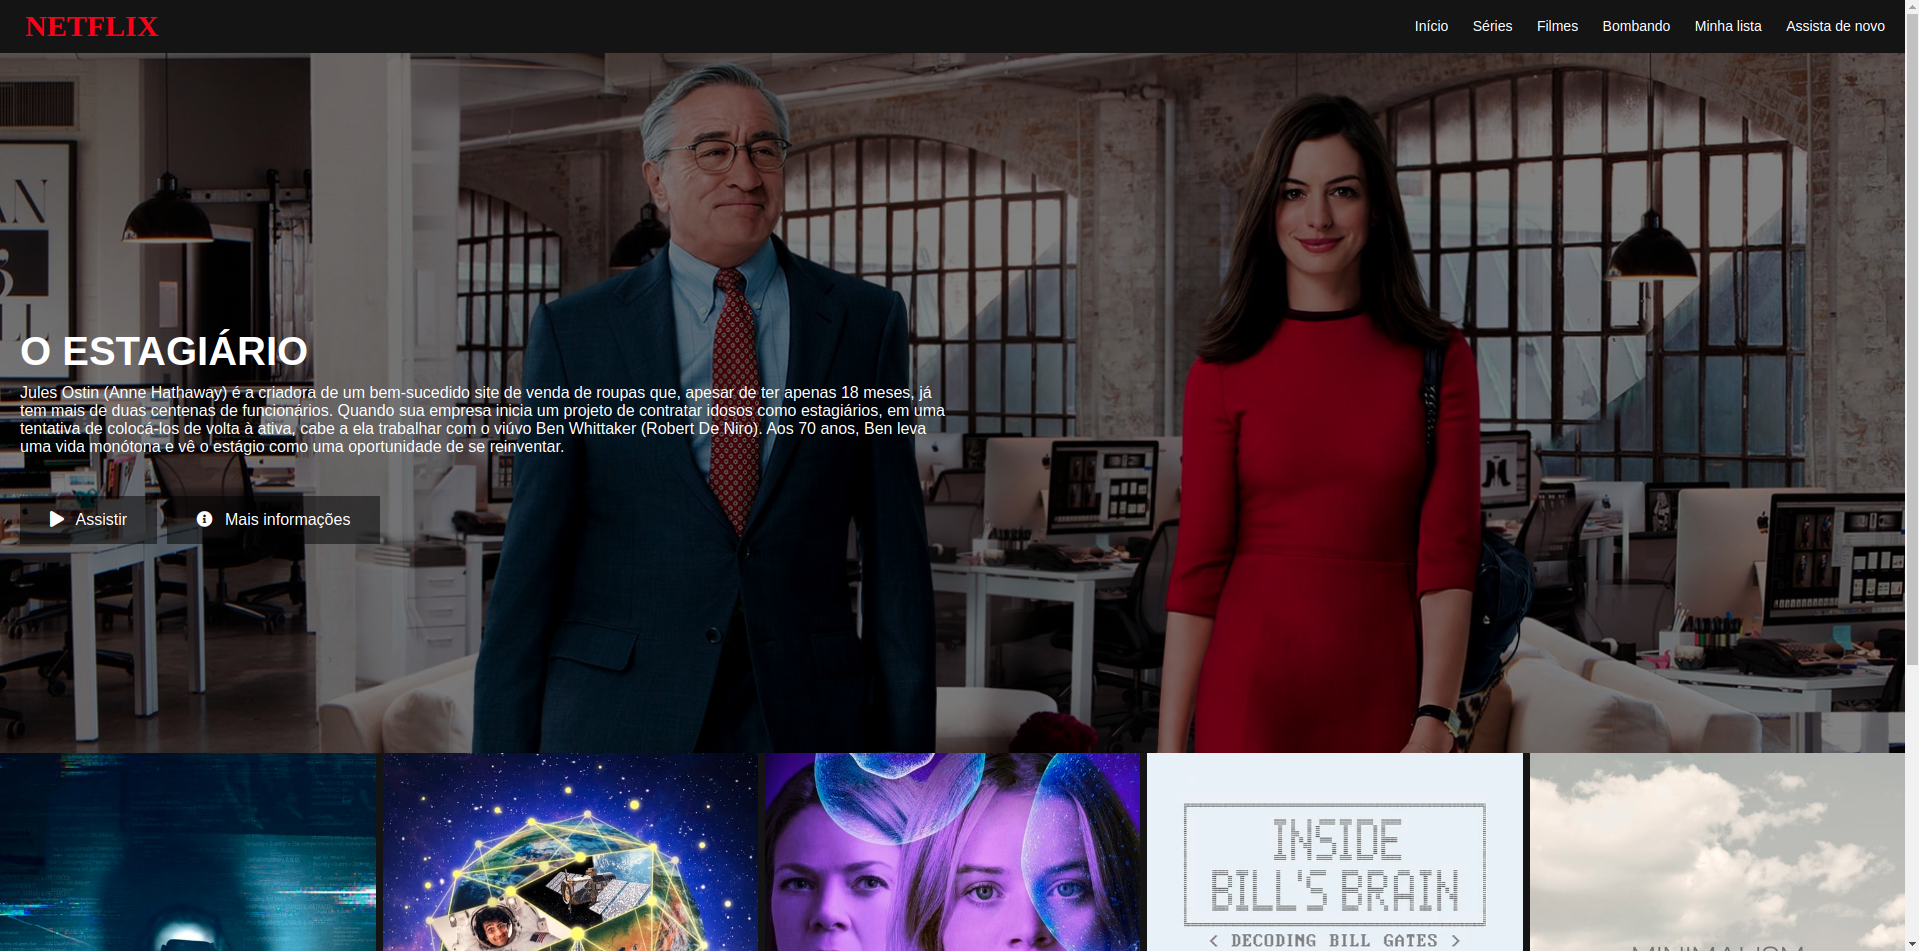
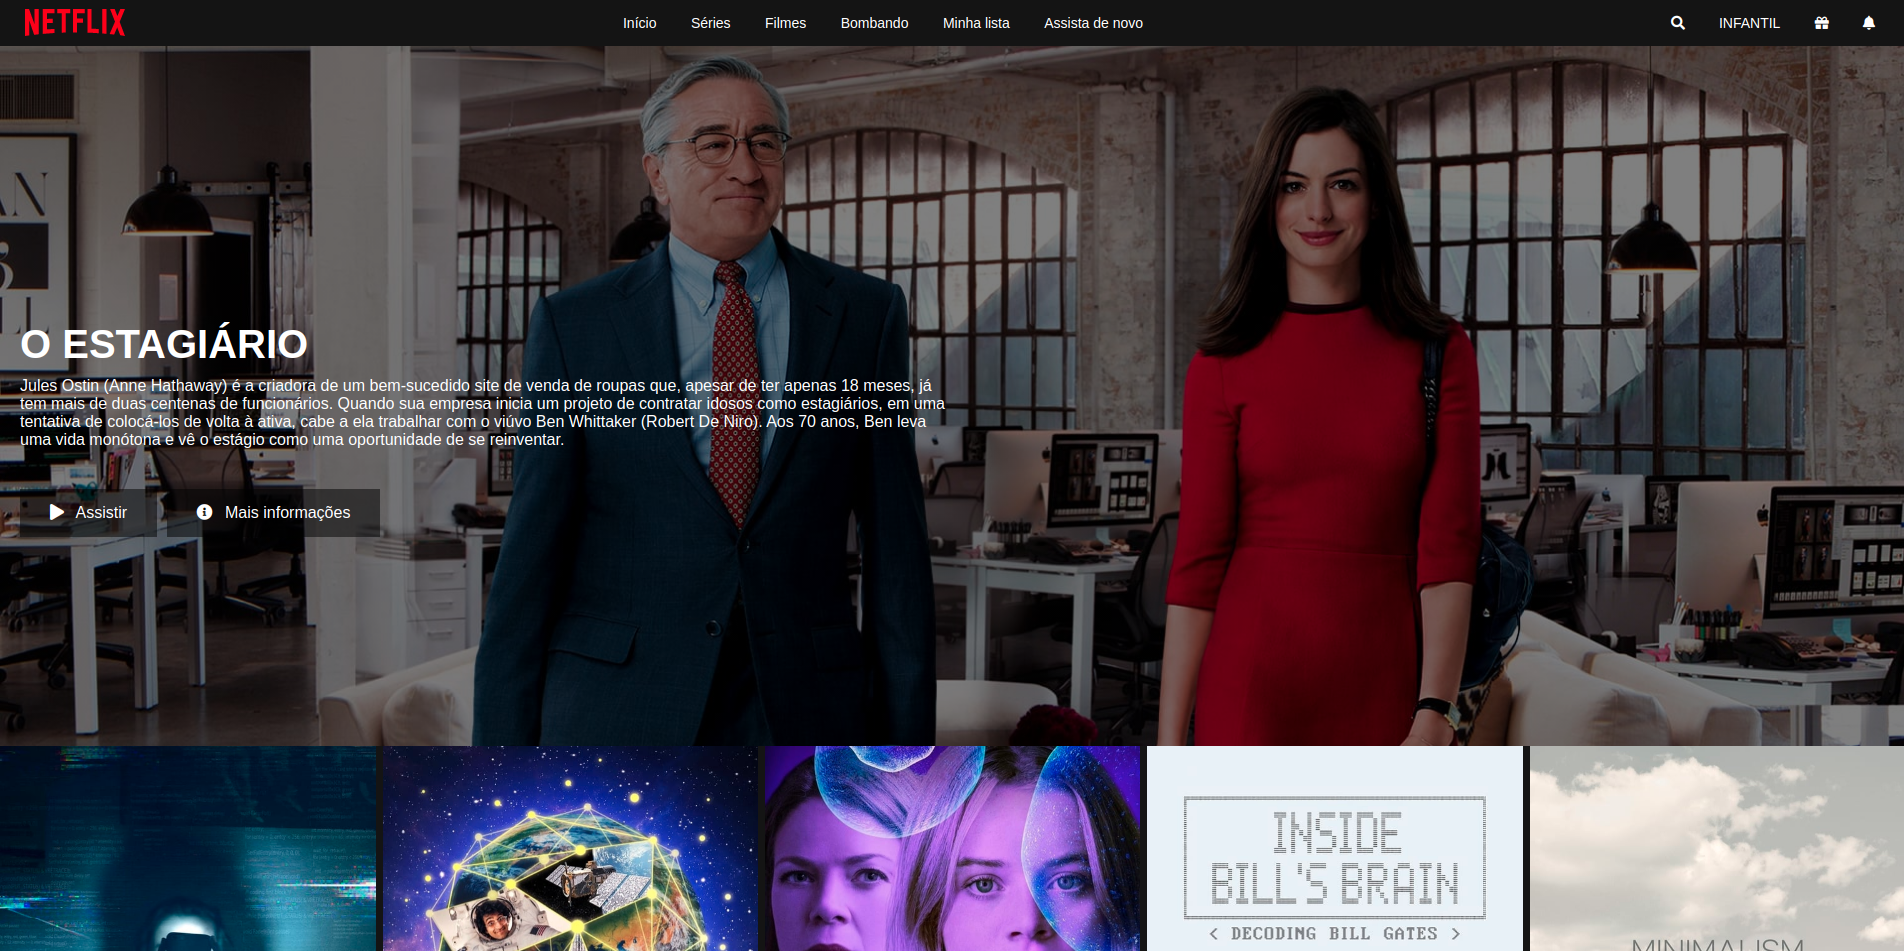
UX

diff --git a/index.html b/index.html
@@ -13,18 +13,32 @@
     <link rel="stylesheet" href="style/owl/owl.theme.default.min.css">
 
     <title>NETFLIX CLONE</title>
+    <link rel="shortcut icon" href="https://assets.nflxext.com/us/ffe/siteui/common/icons/nficon2016.ico">
 </head>
 <body>
     <header>
         <div class="container">
-            <h2 class="logo">NETFLIX</h2>
-            <nav>
+            <img class="logo" src="img/logo.svg" alt="NETFLIX" srcset="">
+            <nav class="navleft" aria-label="menuleft">
                 <a href="#">Início</a>
                 <a href="#">Séries</a>
                 <a href="#">Filmes</a>
                 <a href="#">Bombando</a>
                 <a href="#">Minha lista</a>
                 <a href="#">Assista de novo</a>
+            </nav>
+
+            <nav class="navright" aria-label="menuright">
+                <a href="#">
+                    <i class="fas fa-search" aria-hidden="true"></i>
+                </a>
+                <a href="#">INFANTIL</a>
+                <a href="#">
+                    <i class="fas fa-gift" aria-hidden="true"></i>
+                </a>
+                <a href="#">
+                    <i class="fas fa-bell" aria-hidden="true"></i>
+                </a>
             </nav>
         </div>
     </header>
@@ -42,11 +56,11 @@
 <!--  href="https://www.netflix.com/title/80047616" target="_blank" aria-hidden="true" -->
                 <div class="botoes">
                     <button role="button" class="botao">
-                        <i class="fas fa-play"></i>
+                        <i class="fas fa-play" aria-hidden="true"></i>
                         Assistir
                     </button>
                     <button role="button" class="botao">
-                        <i class="fas fa-info-circle"></i>
+                        <i class="fas fa-info-circle" aria-hidden="true"></i>
                         Mais informações
                     </button>
                 </div>

diff --git a/style/main.css b/style/main.css
@@ -27,15 +27,13 @@ header .container {
 
 header .logo {
     margin-left: 5px;
-    color: var(--vermelho);
-    font-family: 'Arial Black', Times; 
-    font-size: 30px;
+    width: 100px;
 }
 
 header nav a {
     text-decoration: none;
     color: #fff;
-    margin-right: 20px;
+    margin-right: 30px;
     font-size: 14px;
 }
 
